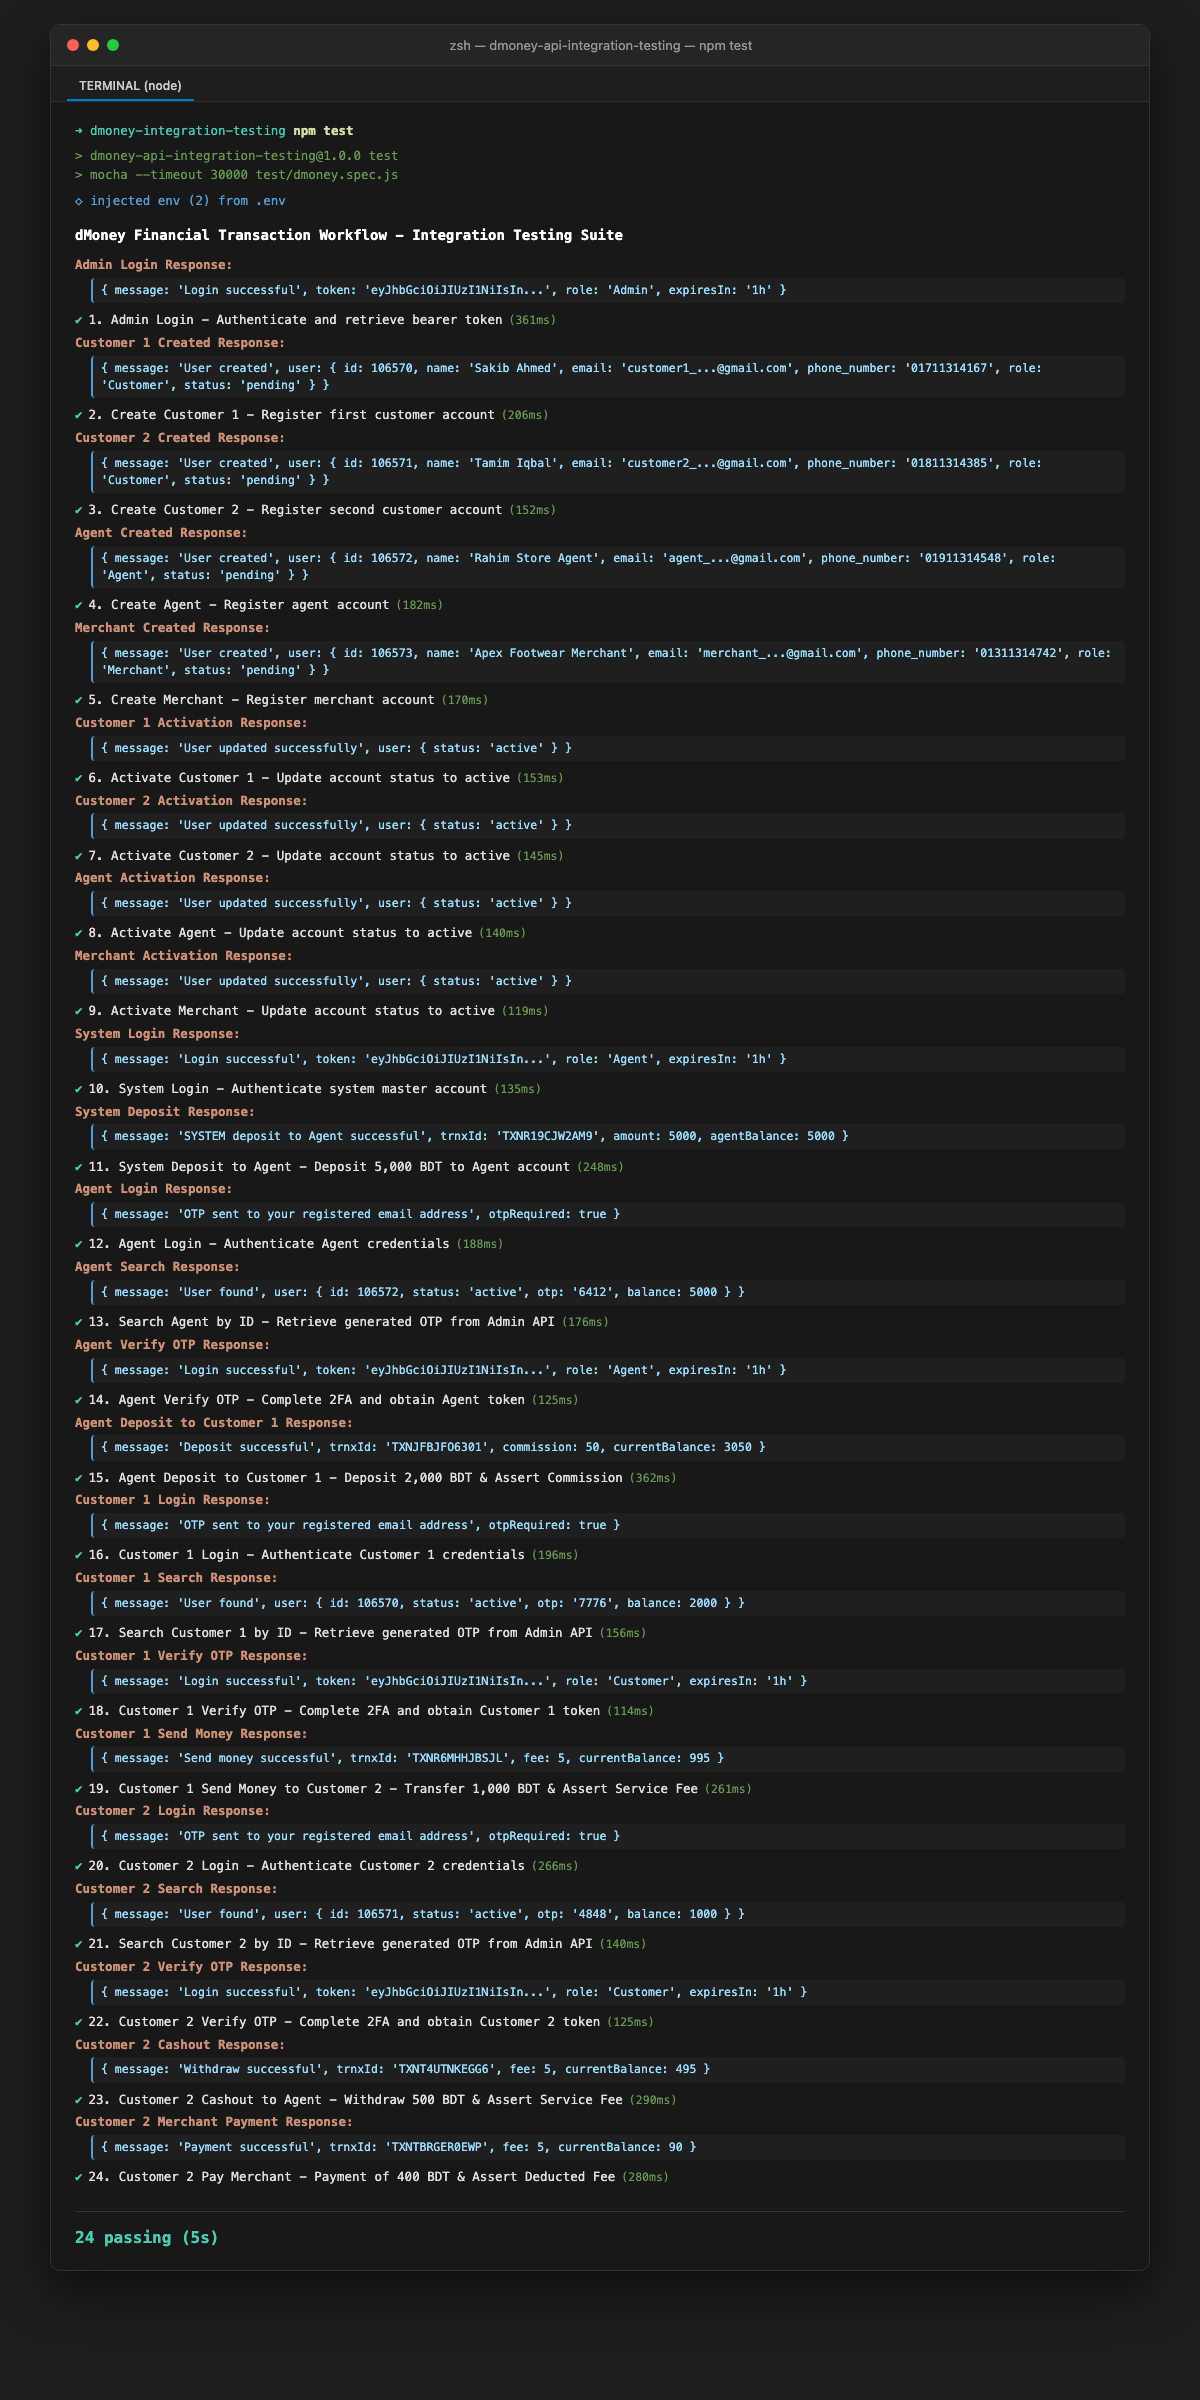
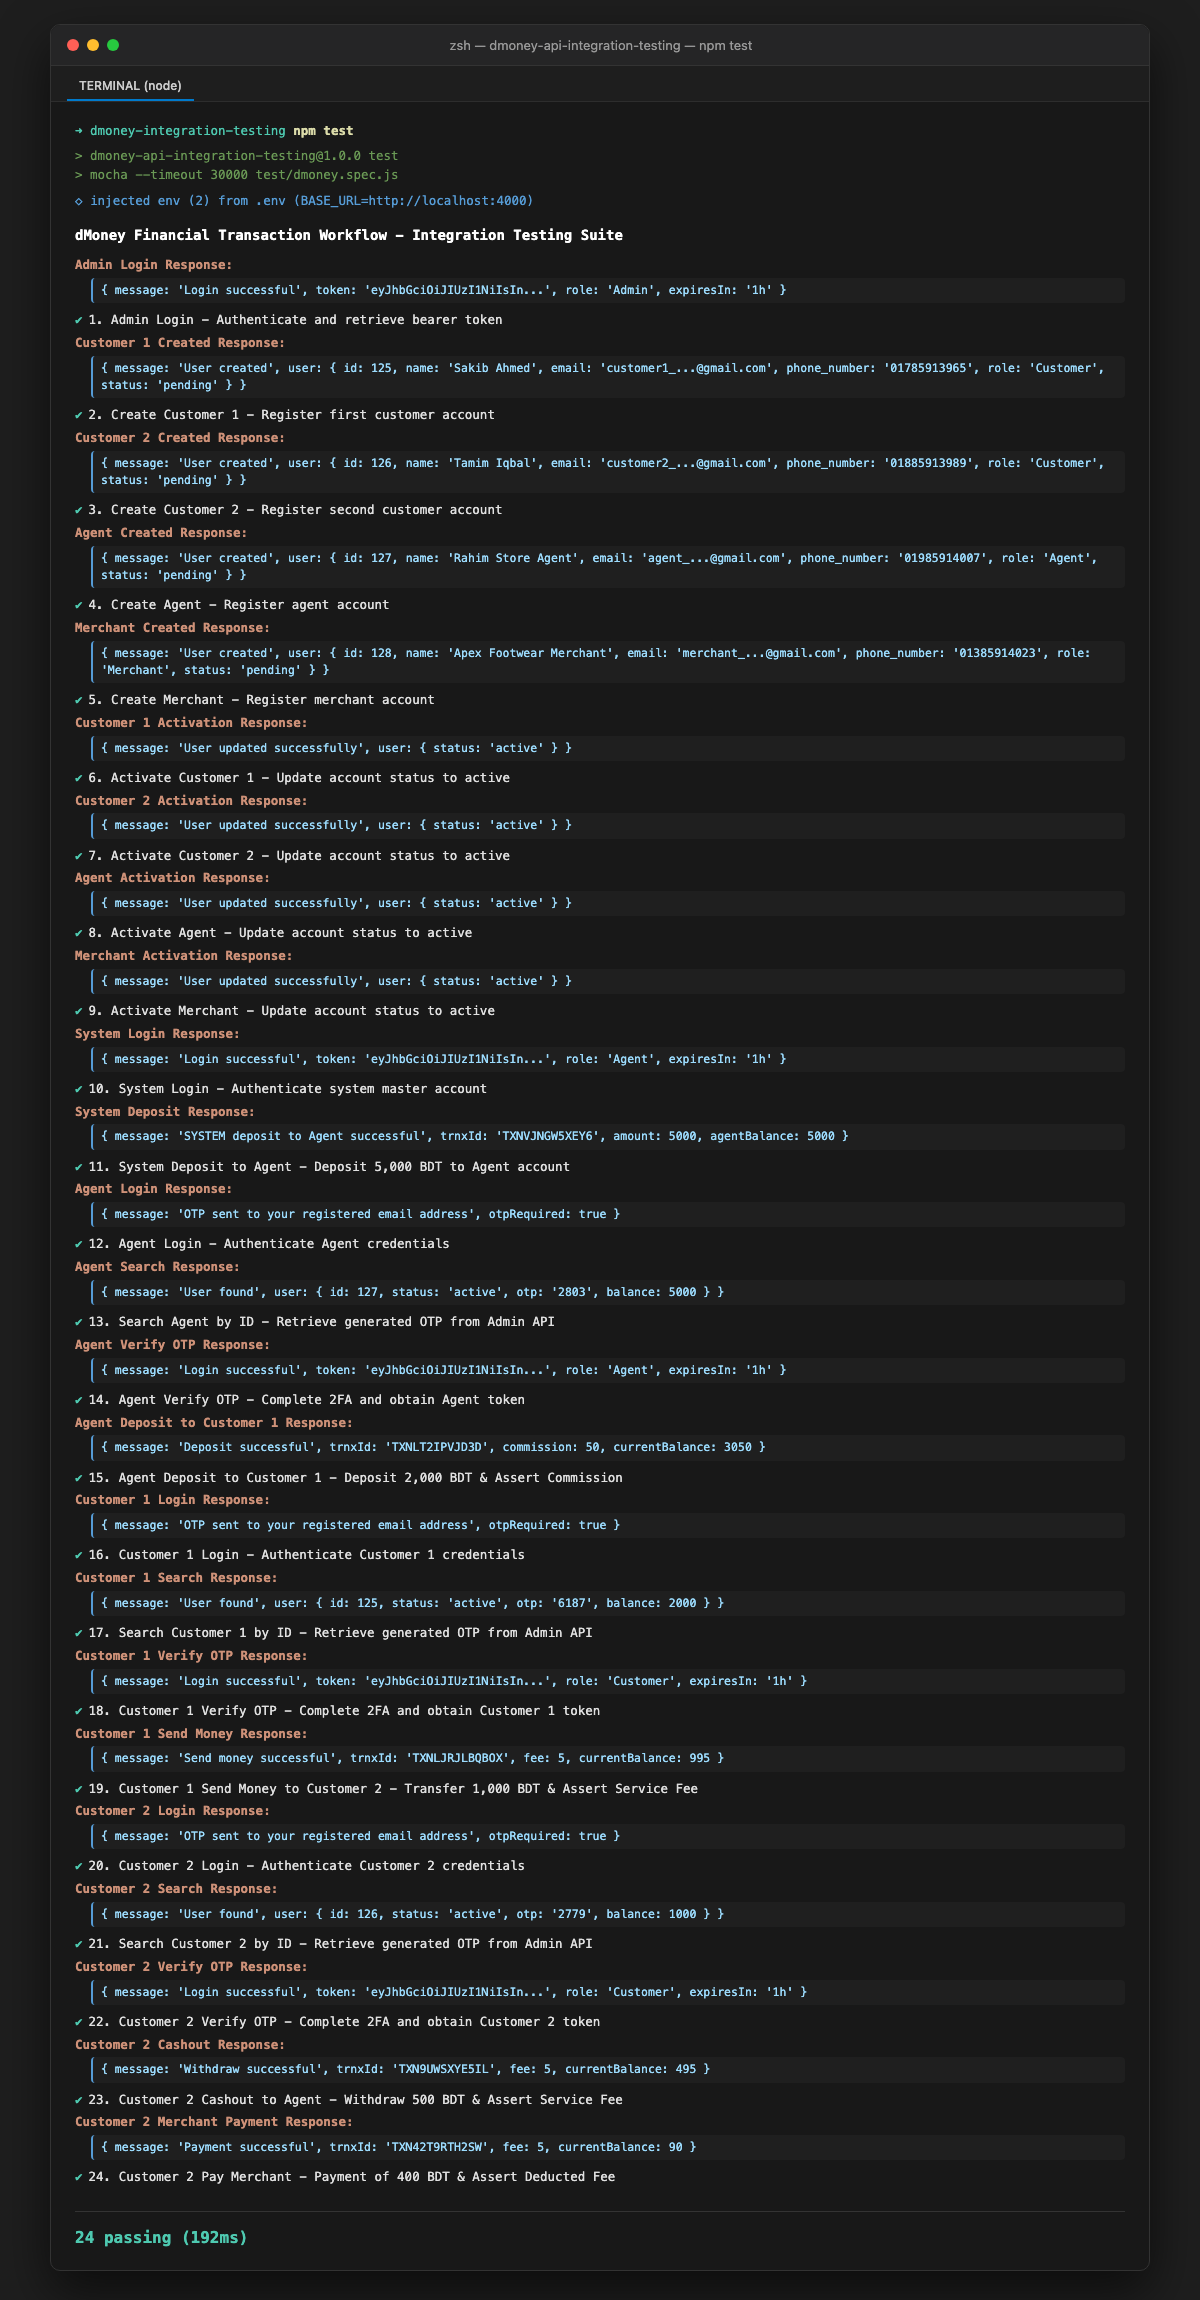
chore: update BASE_URL to localhost:4000 across env, example, and docs

diff --git a/test/dmoney.spec.js b/test/dmoney.spec.js
@@ -2,7 +2,7 @@ const { expect } = require("chai");
 const axios = require("axios");
 require("dotenv").config();
 
-const BASE_URL = process.env.BASE_URL || "https://dmoney.roadtocareer.net";
+const BASE_URL = process.env.BASE_URL || "http://localhost:4000";
 const PARTNER_KEY = process.env.PARTNER_KEY || "ROADTOSDET";
 
 describe("dMoney Financial Transaction Workflow - Integration Testing Suite", function () {

diff --git a/README.md b/README.md
@@ -204,7 +204,12 @@ cp .env.example .env
 Configure your `.env` variables:
 
 ```env
-BASE_URL=https://dmoney.roadtocareer.net
+# Localhost dMoney API Server (Default)
+BASE_URL=http://localhost:4000
+
+# Or Hosted Cloud API Server
+# BASE_URL=https://dmoney.roadtocareer.net
+
 PARTNER_KEY=ROADTOSDET
 ```
 
